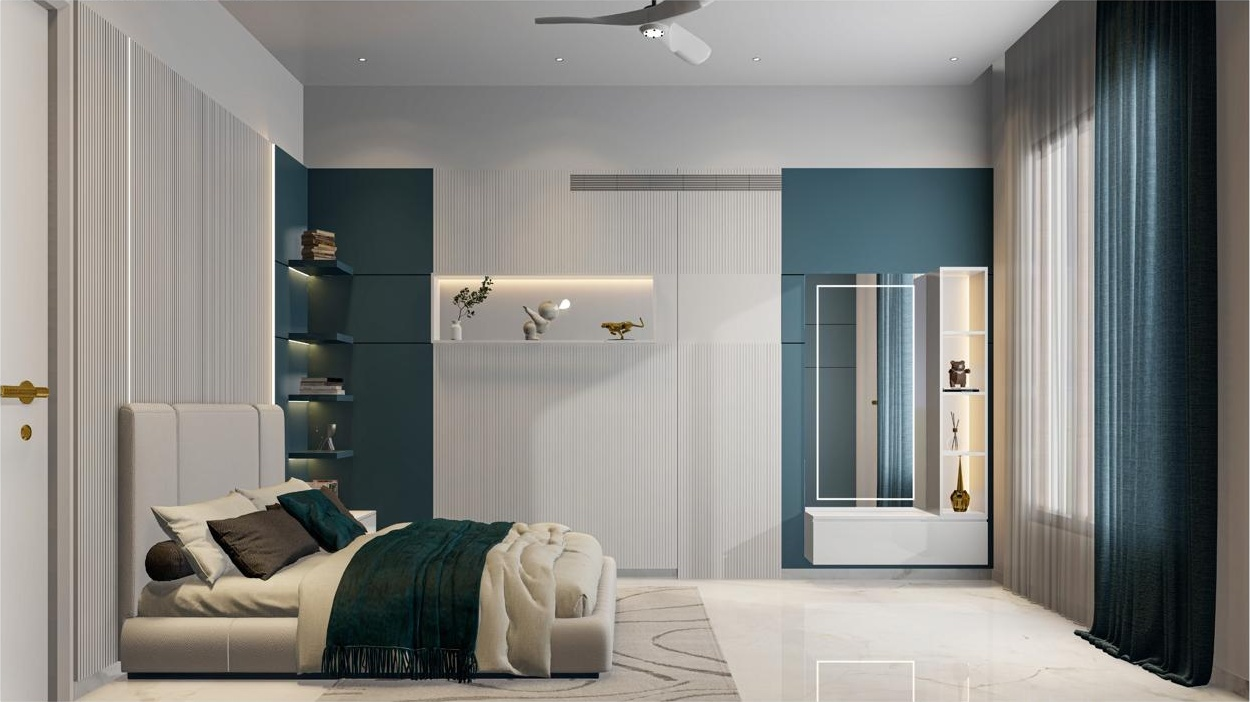
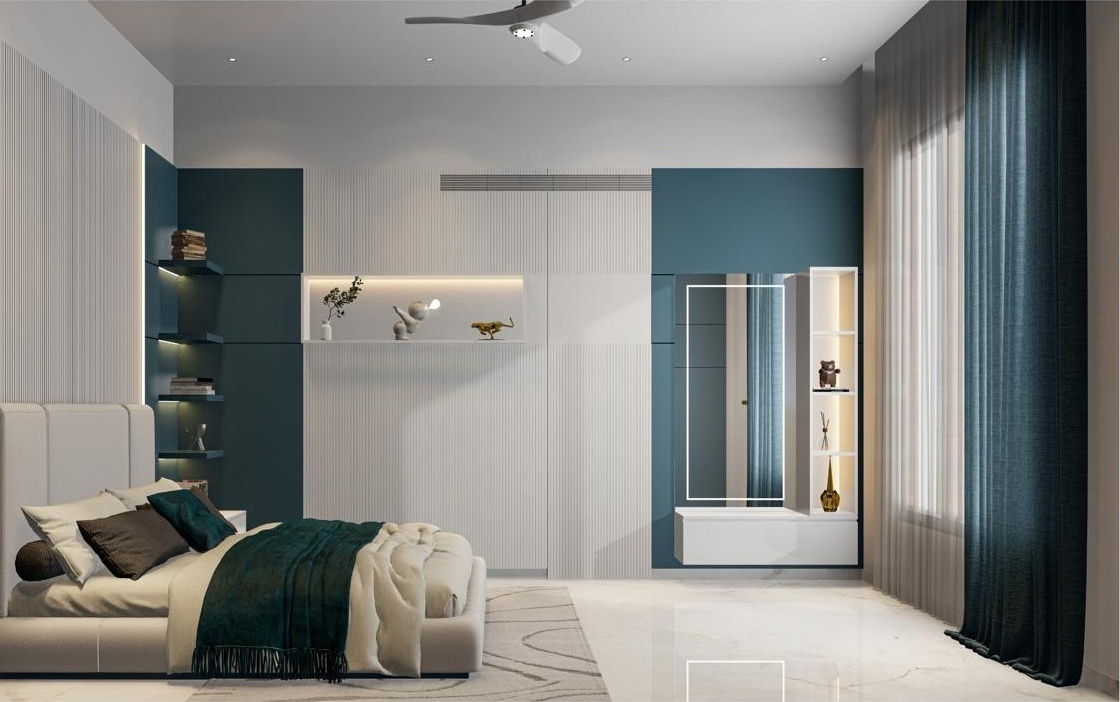
Images: crop remaining white borders from renders (small + originals)
Fixed two bugs in the crop script that caused borders to survive the
first pass:

1. MAX_SCAN=300 was too small — commercial-sahara's bottom border was
   307 rows deep (SECANT logo strip), so the scan gave up 7 rows short.
   Bumped to 600.

2. "last white boundary" algorithm — the old code returned on the FIRST
   non-white column, which meant a 1-px JPEG artifact at the very edge
   (e.g. apartment-park-avenue left col) prevented detection of the wide
   white strip immediately after it. New logic tracks the last white
   row/col seen and only stops when we exit the strip into real content.

3. Explicit file-close before save — on Windows, PIL kept the source
   file handle open causing silent save failures on interior-01 etc.
   Fixed by converting inside a with-block before writing.

4. Sketches excluded from all future runs.

diff --git a/scripts/crop-borders.py b/scripts/crop-borders.py
@@ -1,7 +1,10 @@
 """
 Crop white border strips from render images.
-Scans from each edge until the white-pixel fraction drops below 0.50,
-which marks the transition from the title/logo border into real render content.
+Tracks the last white row/col seen from each edge, stopping only when we
+exit the white strip into genuine render content. This correctly handles:
+  - Deep borders (>300px) on large originals
+  - 1-pixel JPEG artifacts at the very edge followed by a white strip
+Sketches directories are skipped entirely.
 """
 import os
 from PIL import Image
@@ -9,9 +12,9 @@ from PIL import Image
 ASSETS = os.path.join(os.path.dirname(__file__), '..', 'public', 'assets', 'web')
 
 WHITE_CHANNEL  = 240   # per-channel minimum to count as "white"
-CONTENT_THRESH = 0.50  # fraction below which a row is "real content"
-MAX_SCAN       = 300   # max pixels to scan from each edge
-MIN_STRIP      = 3     # ignore crops smaller than this
+CONTENT_THRESH = 0.50  # fraction below which a row/col is real content
+MAX_SCAN       = 600   # max pixels to scan from each edge
+MIN_STRIP      = 3     # ignore border crops smaller than this
 
 EXTS = {'.jpg', '.jpeg', '.png', '.JPG', '.JPEG', '.PNG'}
 
@@ -30,33 +33,53 @@ def col_white_frac(px, x, h):
     return n / h
 
 def find_top_crop(px, w, h):
+    # Track the last row that was part of the white border strip.
+    # Only stop when we've moved into real content (frac drops below threshold
+    # after having seen at least one white row). This lets a 1-px artifact at
+    # the very edge pass through without terminating the scan.
+    last_white = -1
     for y in range(min(MAX_SCAN, h)):
-        if row_white_frac(px, y, w) < CONTENT_THRESH:
-            return y if y >= MIN_STRIP else 0
-    return 0
+        if row_white_frac(px, y, w) >= CONTENT_THRESH:
+            last_white = y
+        elif last_white >= 0:
+            break  # exited the white strip
+    return (last_white + 1) if last_white >= MIN_STRIP - 1 else 0
 
 def find_bottom_crop(px, w, h):
-    for y in range(h - 1, max(h - MAX_SCAN, 0), -1):
-        if row_white_frac(px, y, w) < CONTENT_THRESH:
-            strip = h - 1 - y
-            return strip if strip >= MIN_STRIP else 0
-    return 0
+    last_white = -1
+    for i in range(min(MAX_SCAN, h)):
+        y = h - 1 - i
+        if row_white_frac(px, y, w) >= CONTENT_THRESH:
+            last_white = i
+        elif last_white >= 0:
+            break
+    return (last_white + 1) if last_white >= MIN_STRIP - 1 else 0
 
 def find_left_crop(px, w, h):
+    last_white = -1
     for x in range(min(MAX_SCAN, w)):
-        if col_white_frac(px, x, h) < CONTENT_THRESH:
-            return x if x >= MIN_STRIP else 0
-    return 0
+        if col_white_frac(px, x, h) >= CONTENT_THRESH:
+            last_white = x
+        elif last_white >= 0:
+            break
+    return (last_white + 1) if last_white >= MIN_STRIP - 1 else 0
 
 def find_right_crop(px, w, h):
-    for x in range(w - 1, max(w - MAX_SCAN, 0), -1):
-        if col_white_frac(px, x, h) < CONTENT_THRESH:
-            strip = w - 1 - x
-            return strip if strip >= MIN_STRIP else 0
-    return 0
+    last_white = -1
+    for i in range(min(MAX_SCAN, w)):
+        x = w - 1 - i
+        if col_white_frac(px, x, h) >= CONTENT_THRESH:
+            last_white = i
+        elif last_white >= 0:
+            break
+    return (last_white + 1) if last_white >= MIN_STRIP - 1 else 0
 
 def crop_image(path):
-    img = Image.open(path).convert('RGB')
+    # Open and convert inside a with-block so the file handle is released
+    # before we write back to the same path (avoids silent save failures on Windows).
+    with Image.open(path) as raw:
+        img = raw.convert('RGB')
+
     w, h = img.size
     px = img.load()
 
@@ -76,6 +99,12 @@ def main():
     changed = 0
     skipped = 0
     for root, dirs, files in os.walk(ASSETS):
+        # Skip sketches directories
+        dirs[:] = [d for d in dirs if 'sketch' not in d.lower()]
+        rel_root = os.path.relpath(root, ASSETS)
+        if 'sketch' in rel_root.lower():
+            continue
+
         for fname in sorted(files):
             if os.path.splitext(fname)[1] not in EXTS:
                 continue
@@ -84,14 +113,15 @@ def main():
             try:
                 did_crop, top, bot, left, right = crop_image(fpath)
                 if did_crop:
-                    print(f'  cropped  {rel}  (top={top} bot={bot} left={left} right={right})')
+                    print('  cropped  {}  (top={} bot={} left={} right={})'.format(
+                        rel, top, bot, left, right))
                     changed += 1
                 else:
                     skipped += 1
             except Exception as e:
-                print(f'  ERROR    {rel}: {e}')
+                print('  ERROR    {}: {}'.format(rel, e))
 
-    print(f'\nDone — {changed} cropped, {skipped} skipped/clean.')
+    print('\nDone - {} cropped, {} skipped/clean.'.format(changed, skipped))
 
 if __name__ == '__main__':
     main()
